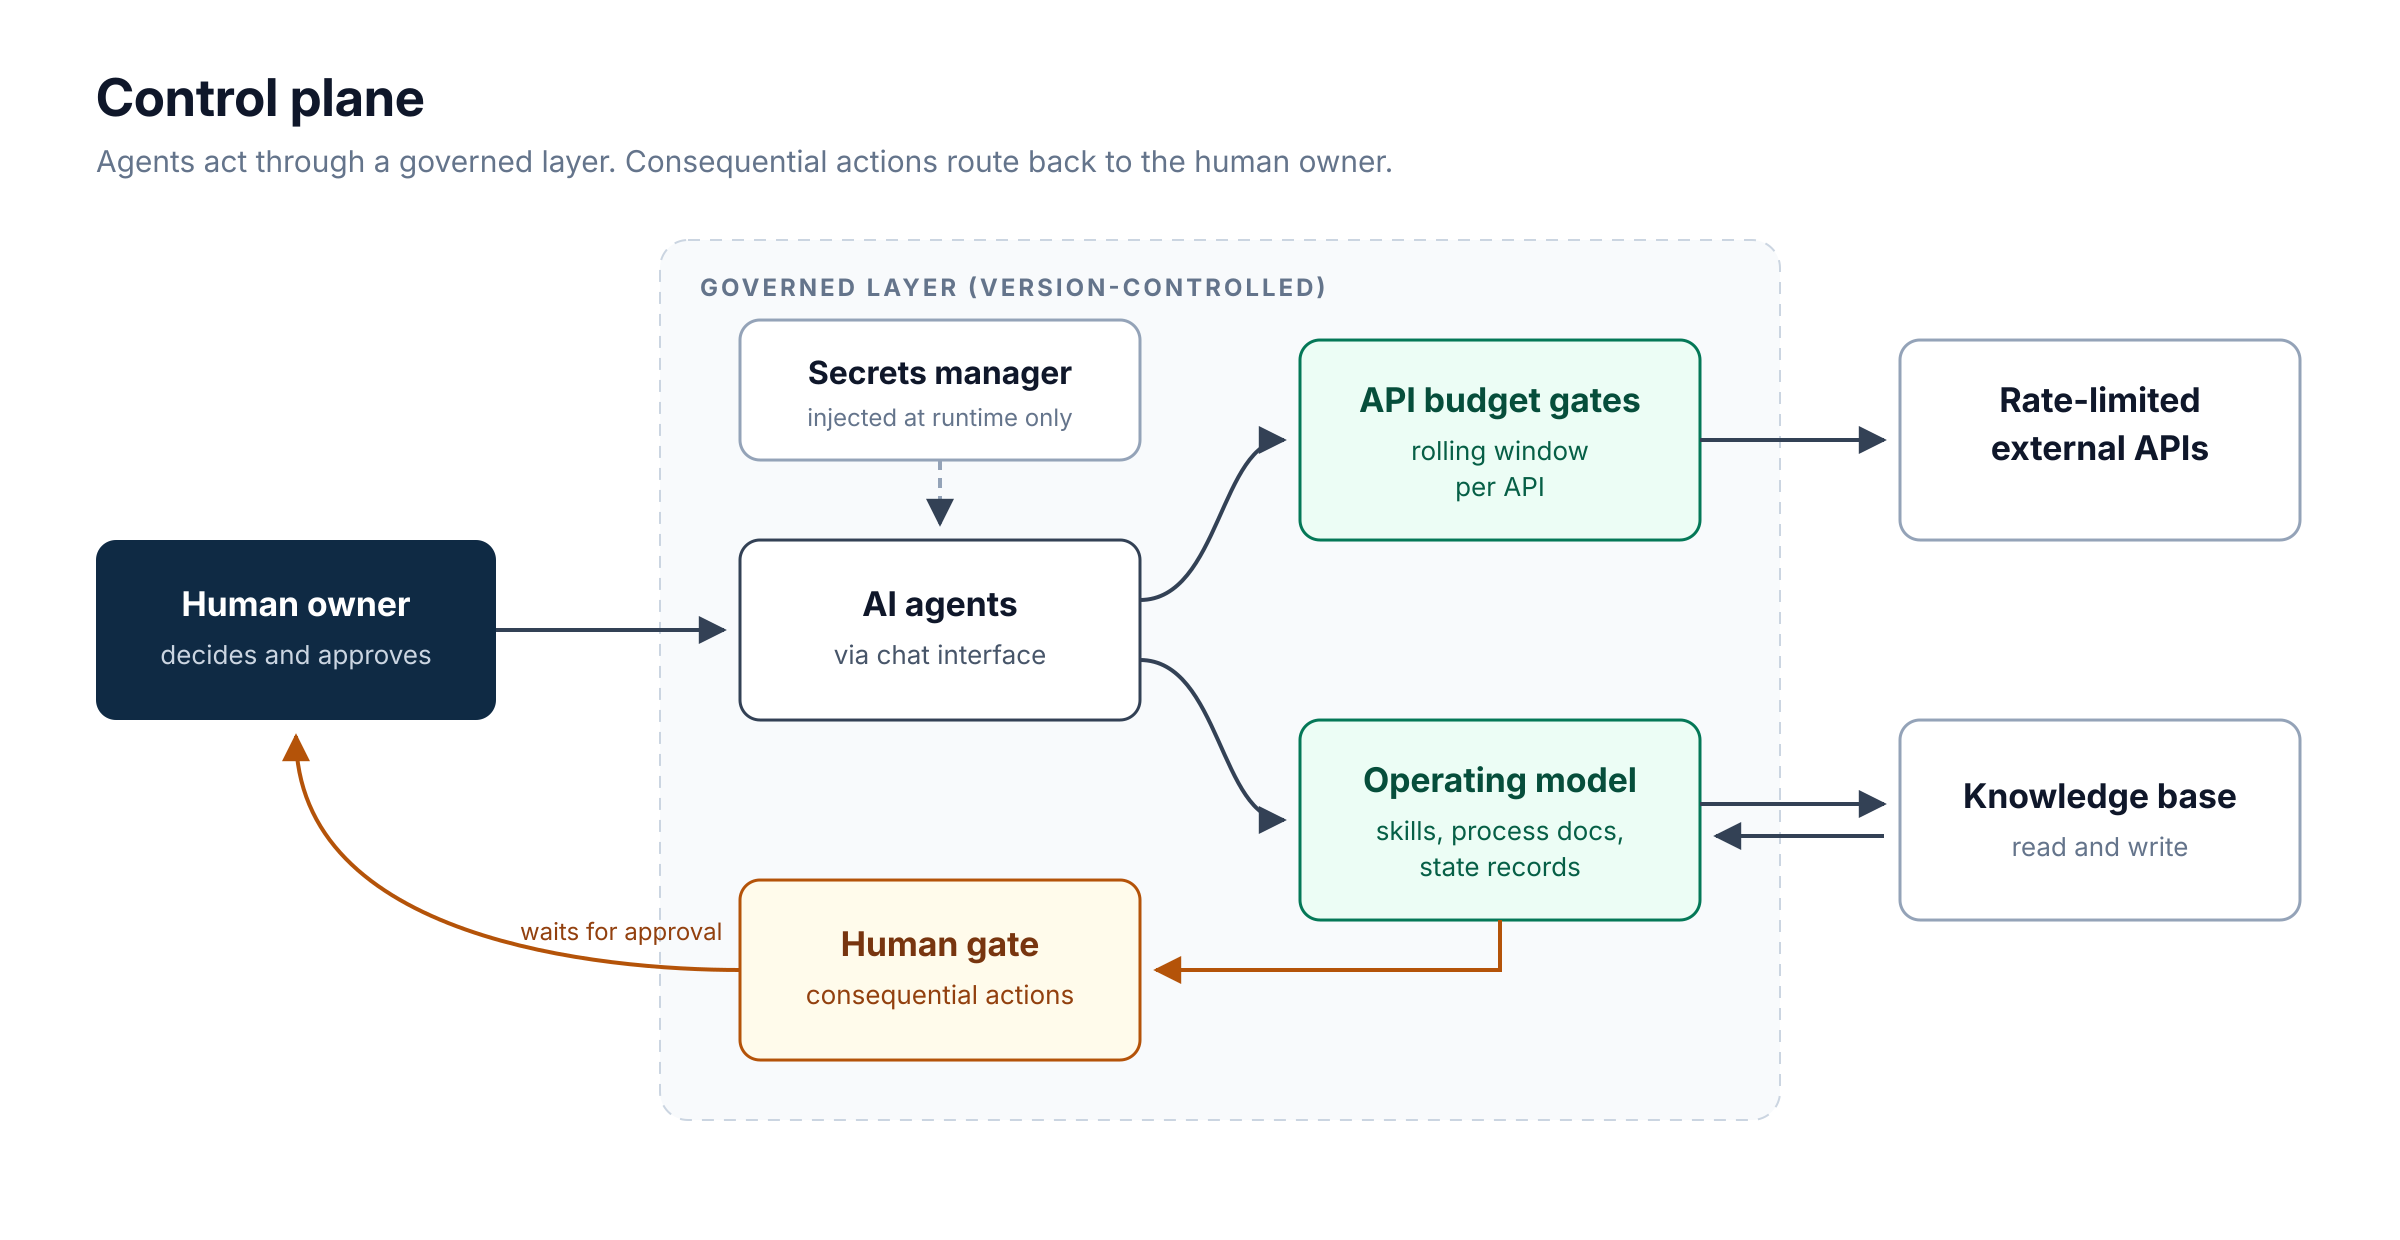
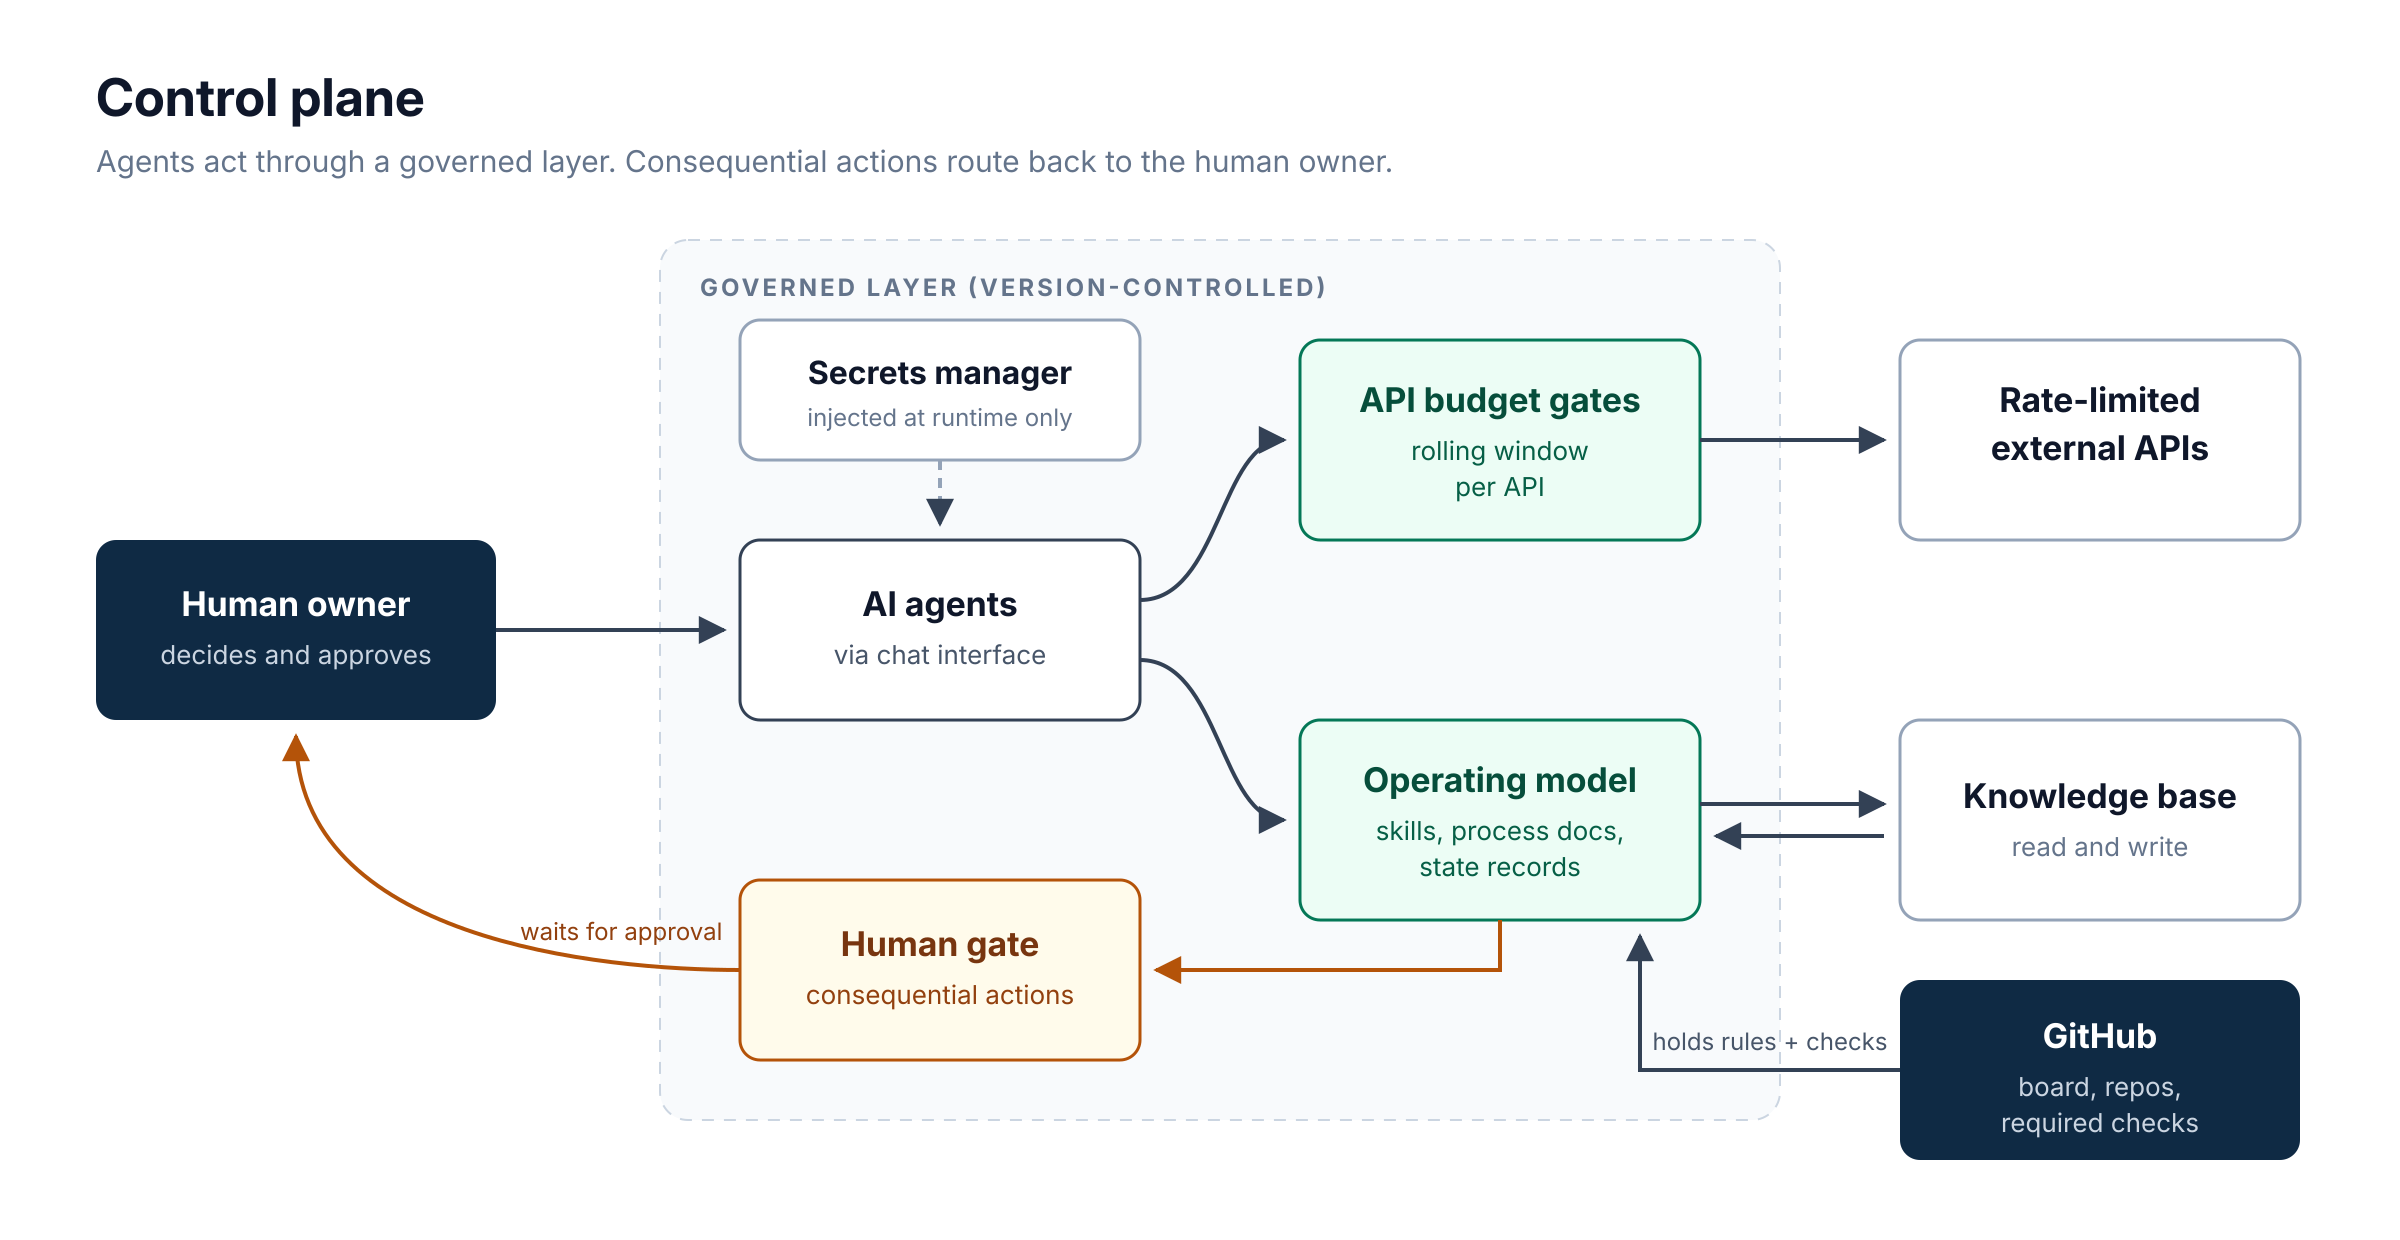
docs: add GitHub to the control-plane diagram

Changed region(s): [[0.6875, 0.7661, 0.9688, 0.95], [0.6562, 0.7661, 0.6875, 0.7968]]

diff --git a/README.md b/README.md
@@ -10,7 +10,7 @@ A working pattern for running AI agents under enterprise security controls.
 - **Approval gates and enforced controls.** What runs on its own, what waits for a human, and which controls a machine actually enforces.
 - **Jarvis.** A personal AI on Rokid Glasses that I use as a real-world lab for guardrails and model testing.
 
-![Control plane: AI agents act through a version-controlled governed layer with secrets injected at runtime, API budget gates, and an operating model, and consequential actions wait for the human owner's approval](diagrams/01-control-plane.png)
+![Control plane: AI agents act through a version-controlled governed layer with secrets injected at runtime, API budget gates, and an operating model whose rules and required checks live in GitHub, and consequential actions wait for the human owner's approval](diagrams/01-control-plane.png)
 
 *The control plane: agents act through a governed layer, and anything consequential routes back to me for approval.*
 

diff --git a/docs/overview.md b/docs/overview.md
@@ -1,6 +1,6 @@
 # AI Operating Model: governing AI agents with security controls as code
 
-![Control plane: AI agents act through a version-controlled governed layer, and consequential actions wait for the human owner's approval](../diagrams/01-control-plane.png)
+![Control plane: AI agents act through a version-controlled governed layer held in GitHub, and consequential actions wait for the human owner's approval](../diagrams/01-control-plane.png)
 
 *The control plane: agents act through a governed layer, and anything consequential routes back to me.*
 
